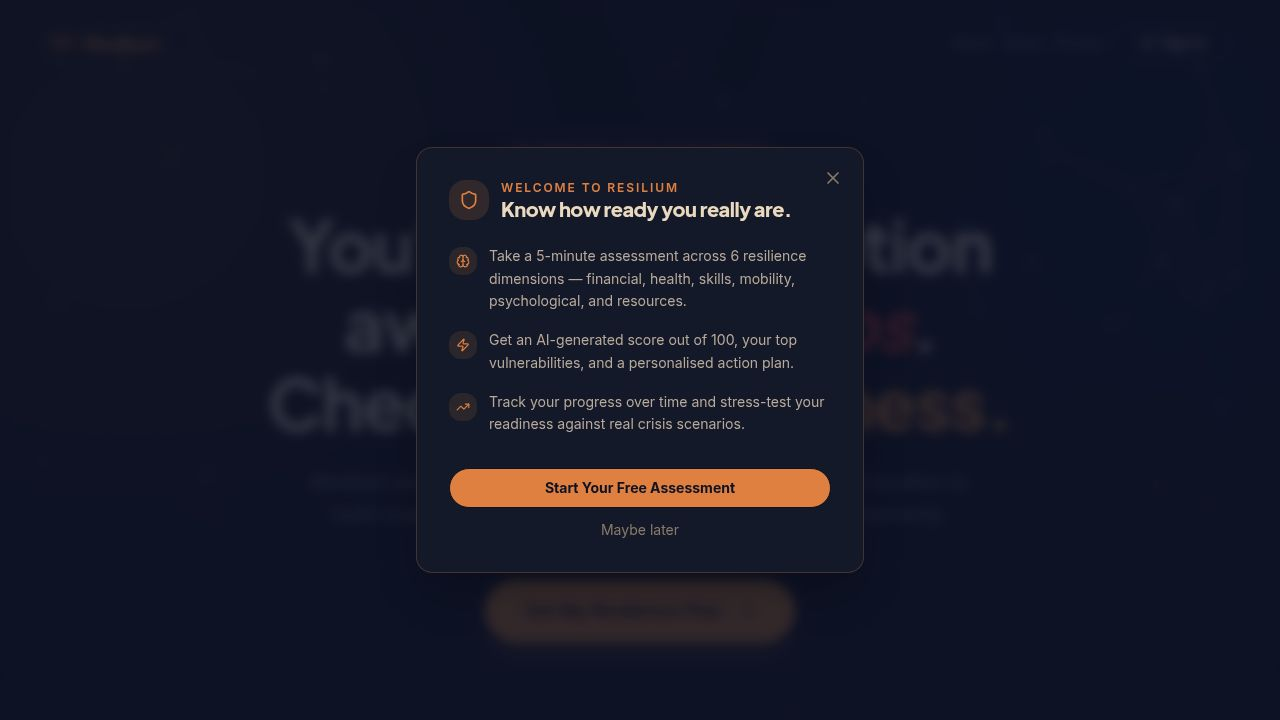
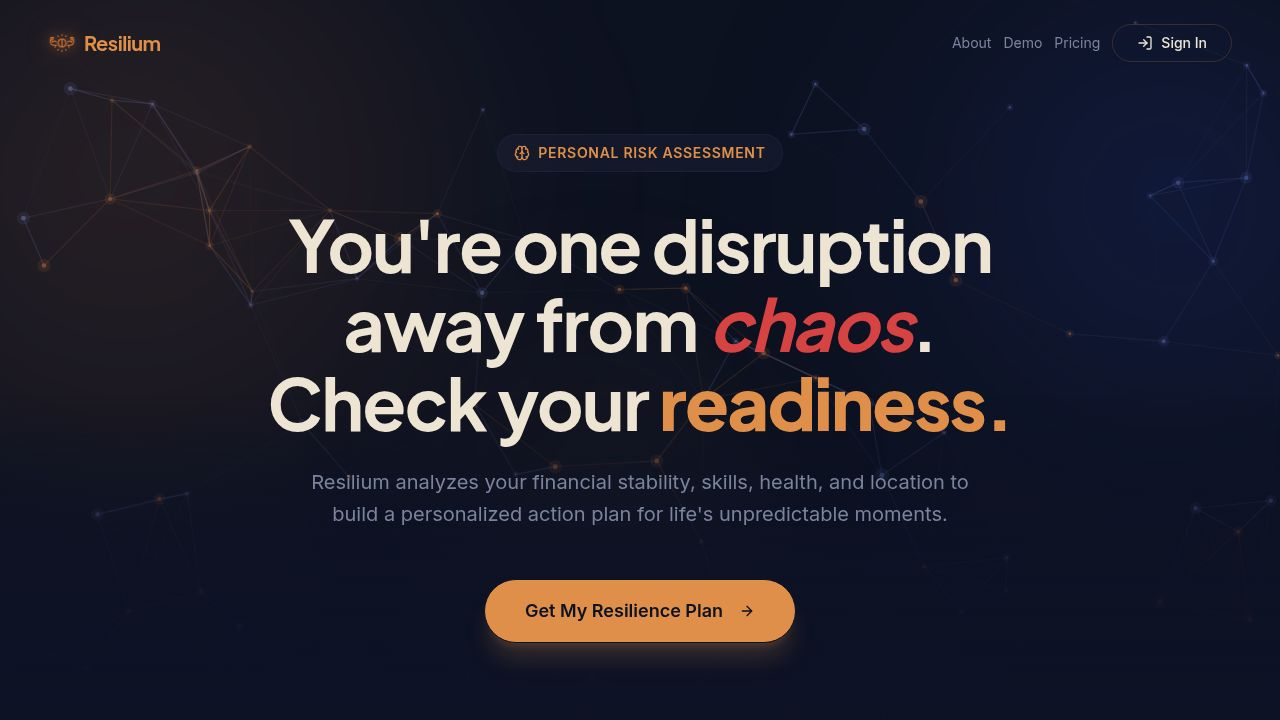
Enhance user experience with assessment insights and engagement features
Update cron jobs for re-engagement reminders, add dimension labels to assessments, adjust landing page testimonials, refine pricing copy, and introduce a contextual coaching card and pro upsell to the results page.

Replit-Commit-Author: Agent
Replit-Commit-Session-Id: 7ab173fc-c0ae-4549-a6f7-9960ef73686b
Replit-Commit-Checkpoint-Type: full_checkpoint
Replit-Commit-Event-Id: 66e6aaf2-3ec2-4718-b029-5b474b4bba9d
Replit-Commit-Screenshot-Url: https://storage.googleapis.com/screenshot-production-us-central1/84522d90-6d69-42c9-90f8-a2adebddaff2/7ab173fc-c0ae-4549-a6f7-9960ef73686b/6J2dV7R
Replit-Helium-Checkpoint-Created: true

diff --git a/artifacts/api-server/src/lib/cron.ts b/artifacts/api-server/src/lib/cron.ts
@@ -59,35 +59,38 @@ export function getCoachingClickCount(): number {
   return coachingClickCount;
 }
 
-// ─── Re-assessment reminder ───────────────────────────────────────────────────
+// ─── Re-assessment reminder helper ───────────────────────────────────────────
 
-async function runReassessmentReminders() {
+async function fetchReminders(dayFrom: number, dayTo: number) {
+  const windowStart = new Date(Date.now() - dayTo   * 24 * 60 * 60 * 1000);
+  const windowEnd   = new Date(Date.now() - dayFrom * 24 * 60 * 60 * 1000);
+  const rows = await db.execute(sql`
+    WITH latest AS (
+      SELECT user_id,
+             MAX(created_at)    AS last_at,
+             MAX(score_overall) AS last_score
+      FROM   resilience_reports
+      WHERE  user_id IS NOT NULL
+      GROUP  BY user_id
+    )
+    SELECT l.user_id, l.last_score, l.last_at,
+           u.email, u.first_name
+    FROM   latest l
+    JOIN   users u ON u.id = l.user_id
+    WHERE  u.email IS NOT NULL
+      AND  l.last_at >= ${windowStart}
+      AND  l.last_at <= ${windowEnd}
+  `);
+  return rows.rows as Array<{ user_id: string; last_score: number; last_at: Date; email: string; first_name: string | null }>;
+}
+
+// ─── 7-day re-engagement reminder ─────────────────────────────────────────────
+
+async function runEarlyReminders() {
   try {
-    logger.info("Running re-assessment reminder job");
-    const windowStart = new Date(Date.now() - 35 * 24 * 60 * 60 * 1000);
-    const windowEnd   = new Date(Date.now() - 28 * 24 * 60 * 60 * 1000);
-
-    // Find users whose most-recent report falls in the 28–35 day window
-    const rows = await db.execute(sql`
-      WITH latest AS (
-        SELECT user_id,
-               MAX(created_at)    AS last_at,
-               MAX(score_overall) AS last_score
-        FROM   resilience_reports
-        WHERE  user_id IS NOT NULL
-        GROUP  BY user_id
-      )
-      SELECT l.user_id, l.last_score, l.last_at,
-             u.email, u.first_name
-      FROM   latest l
-      JOIN   users u ON u.id = l.user_id
-      WHERE  u.email IS NOT NULL
-        AND  l.last_at >= ${windowStart}
-        AND  l.last_at <= ${windowEnd}
-    `);
-
-    const users = rows.rows as Array<{ user_id: string; last_score: number; last_at: Date; email: string; first_name: string | null }>;
-    logger.info({ count: users.length }, "Re-assessment reminder candidates");
+    logger.info("Running 7-day re-engagement reminder job");
+    const users = await fetchReminders(5, 9); // 5–9 days since last report
+    logger.info({ count: users.length }, "7-day reminder candidates");
 
     const userIds: string[] = users.map(u => u.user_id);
 
@@ -101,7 +104,39 @@ async function runReassessmentReminders() {
       }).catch(() => {});
     }
 
-    // Also send push notifications to users who have registered a token
+    if (userIds.length > 0) {
+      await sendPushNotificationsToUsers(
+        userIds,
+        "One action from your Resilium plan",
+        "It's been a week. Pick one item from your plan and take it today.",
+        { screen: "results" }
+      ).catch(() => {});
+    }
+  } catch (err) {
+    logger.error({ err }, "Failed to run 7-day re-engagement reminders");
+  }
+}
+
+// ─── 30-day re-assessment reminder ────────────────────────────────────────────
+
+async function runReassessmentReminders() {
+  try {
+    logger.info("Running 30-day re-assessment reminder job");
+    const users = await fetchReminders(28, 35); // 28–35 days since last report
+    logger.info({ count: users.length }, "30-day re-assessment reminder candidates");
+
+    const userIds: string[] = users.map(u => u.user_id);
+
+    for (const u of users) {
+      const daysSince = Math.round((Date.now() - new Date(u.last_at).getTime()) / (1000 * 60 * 60 * 24));
+      await sendReassessmentReminder({
+        email: u.email,
+        firstName: u.first_name,
+        lastScore: Math.round(u.last_score),
+        daysSince,
+      }).catch(() => {});
+    }
+
     if (userIds.length > 0) {
       await sendPushNotificationsToUsers(
         userIds,
@@ -111,7 +146,7 @@ async function runReassessmentReminders() {
       ).catch(() => {});
     }
   } catch (err) {
-    logger.error({ err }, "Failed to run re-assessment reminders");
+    logger.error({ err }, "Failed to run 30-day re-assessment reminders");
   }
 }
 
@@ -164,10 +199,15 @@ export function startCron(): void {
     runWeeklyDigest().catch(() => {});
   }, { timezone: "UTC" });
 
-  // Every Monday at 08:00 UTC — re-assessment reminders
+  // Every day at 09:00 UTC — 7-day re-engagement reminders
+  cron.schedule("0 9 * * *", () => {
+    runEarlyReminders().catch(() => {});
+  }, { timezone: "UTC" });
+
+  // Every Monday at 08:00 UTC — 30-day re-assessment reminders
   cron.schedule("0 8 * * 1", () => {
     runReassessmentReminders().catch(() => {});
   }, { timezone: "UTC" });
 
-  logger.info("Cron jobs scheduled (digest: Mon 07:00, reminders: Mon 08:00 UTC)");
+  logger.info("Cron jobs scheduled (digest: Mon 07:00, 7d reminders: daily 09:00, 30d reminders: Mon 08:00 UTC)");
 }

diff --git a/artifacts/resilium/src/pages/results.tsx b/artifacts/resilium/src/pages/results.tsx
@@ -211,6 +211,15 @@ export default function ResultsPage() {
       .catch(() => {});
   }, [report?.score?.overall]);
 
+  const [isPro, setIsPro] = useState(false);
+  useEffect(() => {
+    if (!isAuthenticated) return;
+    fetch(`${BASE}/api/users/me/subscription`, { credentials: "include" })
+      .then(r => r.ok ? r.json() : null)
+      .then(d => d && setIsPro(!!d.isActive))
+      .catch(() => {});
+  }, [isAuthenticated]);
+
   if (isLoading) {
     return (
       <div className="min-h-screen flex flex-col items-center justify-center">
@@ -499,6 +508,37 @@ export default function ResultsPage() {
           </section>
         )}
 
+        {/* COACHING CARD — contextual for low psychological / mental resilience score */}
+        {(report.score.psychological < 40 || (mrProfile && mrProfile.composite < 40)) && (
+          <section className="rounded-3xl border border-amber-500/20 bg-gradient-to-br from-amber-500/5 to-orange-500/5 p-6 md:p-8 print:hidden">
+            <div className="flex items-center gap-2 mb-3">
+              <span className="text-[10px] font-bold uppercase tracking-widest text-amber-600 dark:text-amber-400 bg-amber-500/10 px-3 py-1 rounded-full">
+                Phoenix Insight Coaching
+              </span>
+            </div>
+            <h3 className="font-display font-bold text-xl text-foreground mb-2">
+              A score this low often reflects patterns data can't fix.
+            </h3>
+            <p className="text-muted-foreground text-sm leading-relaxed mb-5 max-w-2xl">
+              Psychological resilience is the foundation everything else rests on. A low score here usually reflects accumulated stress, unprocessed disruption, or simply not having had the space to build those muscles yet — not a character flaw.
+              <br /><br />
+              Cristiana Paun at <strong className="text-foreground">Phoenix Insight Coaching</strong> specialises in 1:1 sessions built directly around your Resilium profile. The first call is free, with no commitment.
+            </p>
+            <div className="flex flex-wrap gap-3">
+              <Link href="/coaching">
+                <Button className="rounded-full gap-2 bg-amber-600 hover:bg-amber-700 text-white shadow-md shadow-amber-600/20">
+                  <Heart className="w-4 h-4" /> Explore Coaching
+                </Button>
+              </Link>
+              <a href="https://healing-through-understanding.replit.app/contact" target="_blank" rel="noopener noreferrer">
+                <Button variant="outline" className="rounded-full gap-2 border-amber-500/30 text-amber-700 dark:text-amber-400 hover:bg-amber-500/5">
+                  <ExternalLink className="w-4 h-4" /> Book a Free Call
+                </Button>
+              </a>
+            </div>
+          </section>
+        )}
+
         {/* TOP VULNERABILITIES */}
         <section>
           <div className="flex items-center gap-3 mb-6">
@@ -665,6 +705,34 @@ export default function ResultsPage() {
             ))}
           </Tabs>
         </section>
+
+        {/* PRO UPSELL — shown to free users after the action plan */}
+        {!isPro && (
+          <section className="rounded-3xl border border-primary/20 bg-primary/5 p-6 md:p-8 print:hidden">
+            <div className="flex items-center gap-2 mb-3">
+              <Zap className="w-4 h-4 text-primary" />
+              <span className="text-[10px] font-bold uppercase tracking-widest text-primary">Resilium Pro</span>
+            </div>
+            <h3 className="font-display font-bold text-xl mb-2">
+              See if you're actually getting stronger over time.
+            </h3>
+            <p className="text-muted-foreground text-sm leading-relaxed mb-5 max-w-2xl">
+              Your plan is solid — but resilience is a moving target. Pro lets you reassess as often as you want, tracks your score across all six dimensions month by month, and shows you exactly what's changed and why so you always act on the right things.
+            </p>
+            <div className="flex flex-wrap gap-3">
+              <Link href="/pricing">
+                <Button className="rounded-full gap-2 shadow-md shadow-primary/20">
+                  <Zap className="w-4 h-4" /> Upgrade to Pro — $9/mo
+                </Button>
+              </Link>
+              <Link href="/pricing">
+                <Button variant="outline" className="rounded-full gap-2">
+                  See what's included
+                </Button>
+              </Link>
+            </div>
+          </section>
+        )}
 
         {/* PROGRESS SECTION */}
         {(snapshots.length >= 2 || totalItems > 0) && (

diff --git a/artifacts/resilium/src/pages/assessment.tsx b/artifacts/resilium/src/pages/assessment.tsx
@@ -460,6 +460,22 @@ export default function AssessmentPage() {
 
       <div className="w-full max-w-md mx-auto px-6 mb-8">
         <Progress value={progressPercent} className="h-2" />
+        <div className="flex items-center justify-between mt-2 px-0.5">
+          <span className="text-xs font-semibold text-primary/70">
+            {step === 1 ? "Mental Resilience" :
+             step === 2 ? "Location" :
+             step === 3 ? "Income" :
+             step === 4 ? "Financial Runway" :
+             step === 5 ? "Dependents" :
+             step === 6 ? "Skills" :
+             step === 7 ? "Health & Mobility" :
+             step === 8 ? "Housing" :
+             step === 9 ? "Emergency Supplies" :
+             step === 10 ? "Preparedness" :
+             "Risk Profile"}
+          </span>
+          <span className="text-xs text-muted-foreground">{Math.round(progressPercent)}%</span>
+        </div>
       </div>
 
       <main className="flex-1 flex flex-col items-center justify-center w-full max-w-2xl mx-auto px-6 pb-24">

diff --git a/artifacts/resilium/src/pages/pricing.tsx b/artifacts/resilium/src/pages/pricing.tsx
@@ -56,11 +56,11 @@ const FREE_LIMITS = [
 ];
 
 const PRO_FEATURES = [
-  "Everything in Starter",
-  "Unlimited assessments",
-  "Score history & trend charts",
-  "AI plan comparison — what changed and why",
-  "Scenario stress-tests: job loss, health crisis, relocation, disaster",
+  "Unlimited reassessments — measure your growth month by month",
+  "See exactly how your resilience is trending and whether you're getting stronger",
+  "Know what changed between plans and why — so you act on the right things",
+  "Model crises before they hit: job loss, health emergency, relocation, disaster",
+  "Carry a clear 90-day action list that updates every time you reassess",
 ];
 
 const FAQ_ITEMS = [
@@ -204,10 +204,10 @@ export default function PricingPage() {
                 <Sparkles className="w-3.5 h-3.5" /> Simple Pricing
               </span>
               <h1 className="text-4xl md:text-5xl font-display font-bold mb-4">
-                Know exactly where you stand
+                Know if you're getting stronger
               </h1>
               <p className="text-muted-foreground text-lg max-w-xl mx-auto mb-8">
-                Start with two full assessments at no cost. Upgrade for unlimited access and full progress tracking.
+                Two full assessments for free. Upgrade to track your progress over time, compare plans, and model crisis scenarios before they hit.
               </p>
 
               {/* Billing toggle */}

diff --git a/artifacts/resilium/src/pages/landing.tsx b/artifacts/resilium/src/pages/landing.tsx
@@ -55,7 +55,7 @@ function TestimonialsSection() {
       .catch(() => setLoaded(true));
   }, []);
 
-  if (!loaded || testimonials.length < 3) return null;
+  if (!loaded || testimonials.length === 0) return null;
 
   return (
     <section className="w-full py-20 px-6 border-t border-border/60">